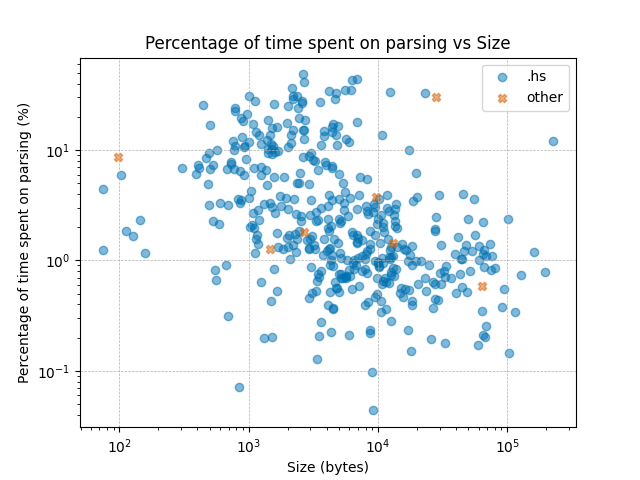
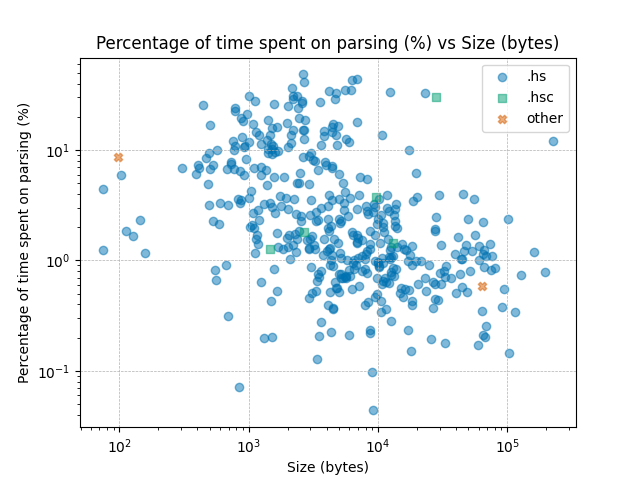
change plot code to be more dynamic

diff --git a/timing_analysis.py b/timing_analysis.py
@@ -5,19 +5,10 @@ import json5
 import pandas as pd
 import matplotlib.pyplot as plt
 
-from constants import SOURCES_DIR, TIMINGS_DIR
-MODULE_STATS_FILE = "module_stats.csv"
-PACKAGE_STATS_FILE = "package_stats.csv"
-
-# Colorblind-friendly colors
-CF_red = (204/255, 121/255, 167/255)
-CF_vermillion = (213/255, 94/255, 0)
-CF_orange = (230/255, 159/255, 0)
-CF_yellow = (240/255, 228/255, 66/255)
-CF_green = (0, 158/255, 115/255)
-CF_sky = (86/255, 180/255, 233/255)
-CF_blue = (0, 114/255, 178/255)
-CF_black = (0, 0, 0)
+from constants import (
+    SOURCES_DIR, TIMINGS_DIR, MODULE_STATS_FILE, PACKAGE_STATS_FILE,
+    CF_blue, CF_vermillion, CF_green
+)
 
 
 def read_json_file(file):
@@ -68,7 +59,6 @@ def get_size_and_extension(package, module):
     print(f"Could not find file for module {module} in package {package}.")
     return 0, ""
 
-# TODO: improve from here on down
 
 def compute_statistics(df):
     if df.empty:
@@ -78,6 +68,7 @@ def compute_statistics(df):
     modules = df["module"].unique()
     package_name = df["package"].iloc[0]
 
+    # Module stats
     for module in modules:
         module_size, module_extension = get_size_and_extension(package_name, module)
         if module_size == 0 and module_extension == "":
@@ -100,6 +91,7 @@ def compute_statistics(df):
     module_stats_df = pd.DataFrame(module_stats)
     module_stats_df.insert(0, "package", package_name)
 
+    # Package stats
     package_total_time = module_stats_df["total_time"].sum()
     package_parser_time = module_stats_df["parser_time"].sum()
     package_parser_percentage = (package_parser_time / package_total_time) * 100
@@ -128,71 +120,58 @@ def calculate_statistics_for_packages(files):
     for file in files:
         timings_df = read_and_clean_timings(file)
         module_stats_df, package_stats_df = compute_statistics(timings_df)
-        
         all_module_stats.append(module_stats_df)
         all_package_stats.append(package_stats_df)
 
     all_module_stats_df = pd.concat(all_module_stats, ignore_index = True)
-    all_package_stats_df = pd.concat(all_package_stats, ignore_index = True)
-
     all_module_stats_df.to_csv(MODULE_STATS_FILE, index = False)
+
+    all_package_stats_df = pd.concat(all_package_stats, ignore_index = True)
     all_package_stats_df.to_csv(PACKAGE_STATS_FILE, index = False)
 
 
-def make_plots():
+# TODO: move to constants later
+PLOT_STYLES = {
+    ".hs": {"color": CF_blue, "marker": "o"},
+    ".hsc": {"color": CF_green, "marker": "s"}
+    # "other": {"color": CF_vermillion, "marker": "X"}
+}
+DEFAULT_PLOT_STYLE = {"color": CF_vermillion, "marker": "X"}
+
+
+def plot_metric_vs_metric(df, x, y, xlabel, ylabel, title, filename):
+    fig, ax = plt.subplots()
+    for ext, ext_df in df.groupby("extension"):
+        style = PLOT_STYLES.get(ext, DEFAULT_PLOT_STYLE)
+        ax.scatter(ext_df[x], ext_df[y], alpha = 0.5, label = ext, **style)
+
+    ax.set(xscale = "log", yscale = "log")
+    ax.grid(linestyle = "--", linewidth = 0.5)
+    ax.set(xlabel = xlabel, ylabel = ylabel, title = title)
+    ax.legend()
+    fig.savefig(filename)
+
+
+def make_module_plots():
     df = pd.read_csv(MODULE_STATS_FILE)
-    hs_df = df[df["extension"] == ".hs"]
-    other_df = df[df["extension"] != ".hs"]
+    # TODO: uncomment to show all extensions but defaults to 'other' style
+    # df["extension"] = df["extension"].apply(lambda x: x if x in PLOT_STYLES else "other")
 
-    fig1, ax1 = plt.subplots()
-    ax1.scatter(hs_df["total_time"], hs_df["parser_time"],
-                color = CF_blue, marker = "o", alpha = 0.5, label = ".hs")
-    ax1.scatter(other_df["total_time"], other_df["parser_time"],
-                color = CF_vermillion, marker = "X", alpha = 0.5, label = "other")
-    ax1.set(xscale = "log", yscale = "log")
-    ax1.grid(linestyle = "--", linewidth = 0.5)
-    ax1.set(xlabel = "Total time (ms)", ylabel = "Parser time (ms)",
-            title = "Parser time vs Total time")
-    ax1.legend()
-    fig1.savefig("plot_parser_vs_total.png")
+    metrics = [
+        ("total_time", "parser_time", "Total time (ms)", "Parser time (ms)", "plot_parser_vs_total.png"),
+        ("total_time", "parser_percentage", "Total time (ms)", "Percentage of time spent on parsing (%)", "plot_parser_pct_vs_total.png"),
+        ("size", "parser_time", "Size (bytes)", "Parser time (ms)", "plot_parser_vs_size.png"),
+        ("size", "parser_percentage", "Size (bytes)", "Percentage of time spent on parsing (%)", "plot_parser_pct_vs_size.png")
+    ]
 
-    fig2, ax2 = plt.subplots()
-    ax2.scatter(hs_df["total_time"], hs_df["parser_percentage"],
-                color = CF_blue, marker = "o", alpha = 0.5, label = ".hs")
-    ax2.scatter(other_df["total_time"], other_df["parser_percentage"],
-                color = CF_vermillion, marker = "X", alpha = 0.5, label = "other")
-    ax2.set(xscale = "log", yscale = "log")
-    ax2.grid(linestyle = "--", linewidth = 0.5)
-    ax2.set(xlabel = "Total time (ms)", ylabel = "Percentage of time spent on parsing (%)",
-            title = "Percentage of time spent on parsing vs Total time")
-    ax2.legend()
-    fig2.savefig("plot_parser_pct_vs_total.png")
+    for x, y, xlabel, ylabel, filename in metrics:
+        plot_metric_vs_metric(df, x, y, xlabel, ylabel, f"{ylabel} vs {xlabel}", filename)
 
-    fig3, ax3 = plt.subplots()
-    ax3.scatter(hs_df["size"], hs_df["parser_time"],
-                color = CF_blue, marker = "o", alpha = 0.5, label = ".hs")
-    ax3.scatter(other_df["size"], other_df["parser_time"],
-                color = CF_vermillion, marker = "X", alpha = 0.5, label = "other")
-    ax3.set(xscale = "log", yscale = "log")
-    ax3.grid(linestyle = "--", linewidth = 0.5)
-    ax3.set(xlabel = "Size (bytes)", ylabel = "Parser time (ms)",
-            title = "Parser time vs Size")
-    ax3.legend()
-    fig3.savefig("plot_parser_vs_size.png")
 
-    fig4, ax4 = plt.subplots()
-    ax4.scatter(hs_df["size"], hs_df["parser_percentage"],
-                color = CF_blue, marker = "o", alpha = 0.5, label = ".hs")
-    ax4.scatter(other_df["size"], other_df["parser_percentage"],
-                color = CF_vermillion, marker = "X", alpha = 0.5, label = "other")
-    ax4.set(xscale = "log", yscale = "log")
-    ax4.grid(linestyle = "--", linewidth = 0.5)
-    ax4.set(xlabel = "Size (bytes)", ylabel = "Percentage of time spent on parsing (%)",
-            title = "Percentage of time spent on parsing vs Size")
-    ax4.legend()
-    fig4.savefig("plot_parser_pct_vs_size.png")
+def make_package_plots():
+    # TODO: implement
+    pass
 
 
 if __name__ == "__main__":
-    # pass
-    get_size_and_extension("hashable-1.4.7.0", "Data.Hashable")
+    pass

diff --git a/run.py b/run.py
@@ -1,13 +1,13 @@
 from collect_sources import fetch_top_package_links, download_sources, extract_sources, build_sources
-from timing_analysis import calculate_statistics_for_packages, make_plots
+from timing_analysis import calculate_statistics_for_packages, make_module_plots
 
 
 if __name__ == "__main__":
-    links = fetch_top_package_links(20)
-    links = links[1:] # Omitting the `base` package
-    files = download_sources(links)
-    extract_sources(files)
-    dirs = list(map(lambda f: f.replace(".tar.gz", ""), files))
-    json_files = build_sources(dirs)
-    calculate_statistics_for_packages(json_files)
-    make_plots()
+    # links = fetch_top_package_links(20)
+    # links = links[1:] # Omitting the `base` package
+    # files = download_sources(links)
+    # extract_sources(files)
+    # dirs = list(map(lambda f: f.replace(".tar.gz", ""), files))
+    # json_files = build_sources(dirs)
+    # calculate_statistics_for_packages(json_files)
+    make_module_plots()

diff --git a/constants.py b/constants.py
@@ -1,2 +1,14 @@
 SOURCES_DIR = "sources"
 TIMINGS_DIR = "timing_data"
+MODULE_STATS_FILE = "module_stats.csv"
+PACKAGE_STATS_FILE = "package_stats.csv"
+
+# Colorblind-friendly colors
+CF_red = (204/255, 121/255, 167/255)
+CF_vermillion = (213/255, 94/255, 0)
+CF_orange = (230/255, 159/255, 0)
+CF_yellow = (240/255, 228/255, 66/255)
+CF_green = (0, 158/255, 115/255)
+CF_sky = (86/255, 180/255, 233/255)
+CF_blue = (0, 114/255, 178/255)
+CF_black = (0, 0, 0)
